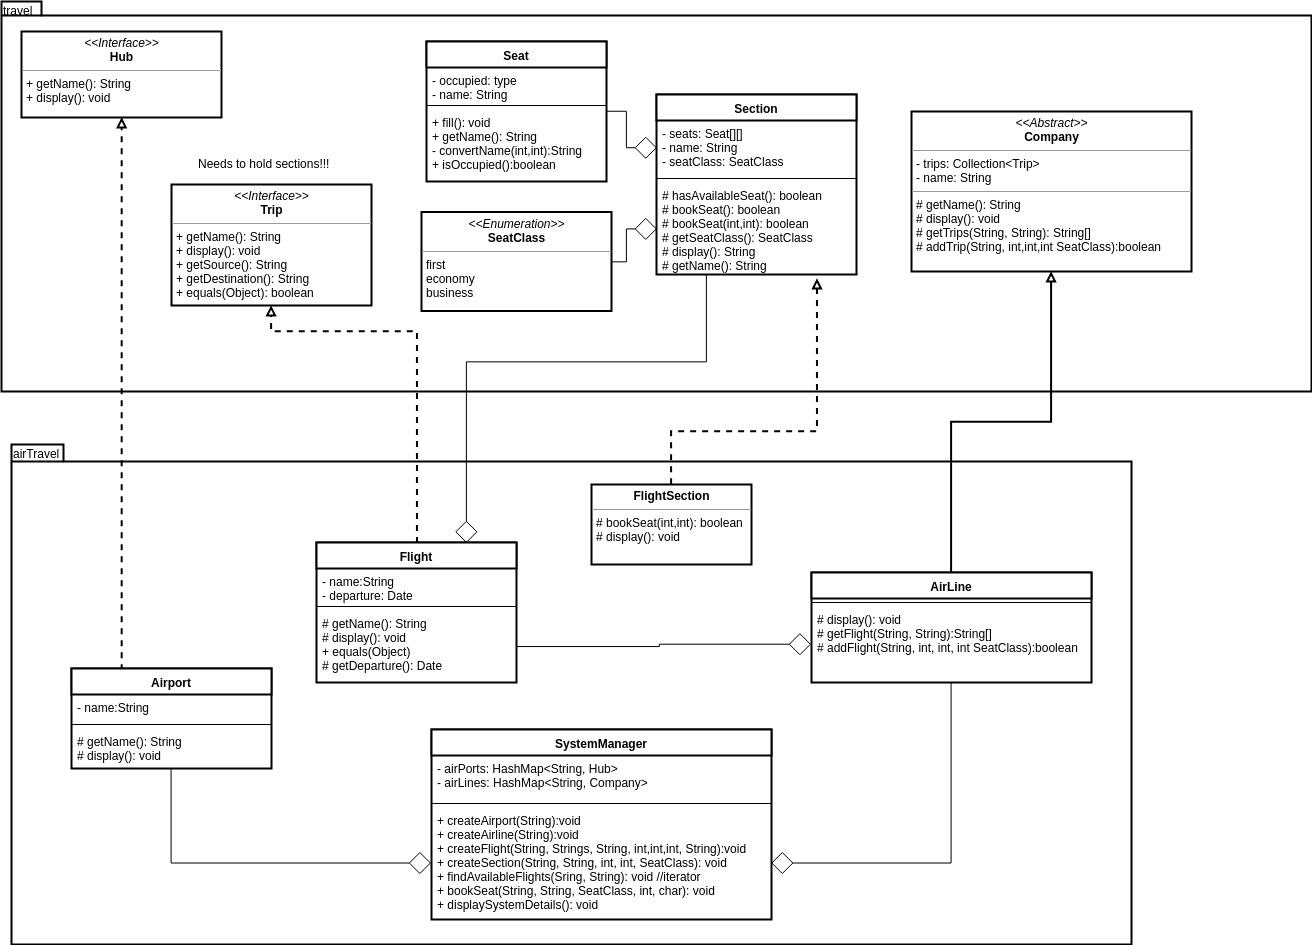
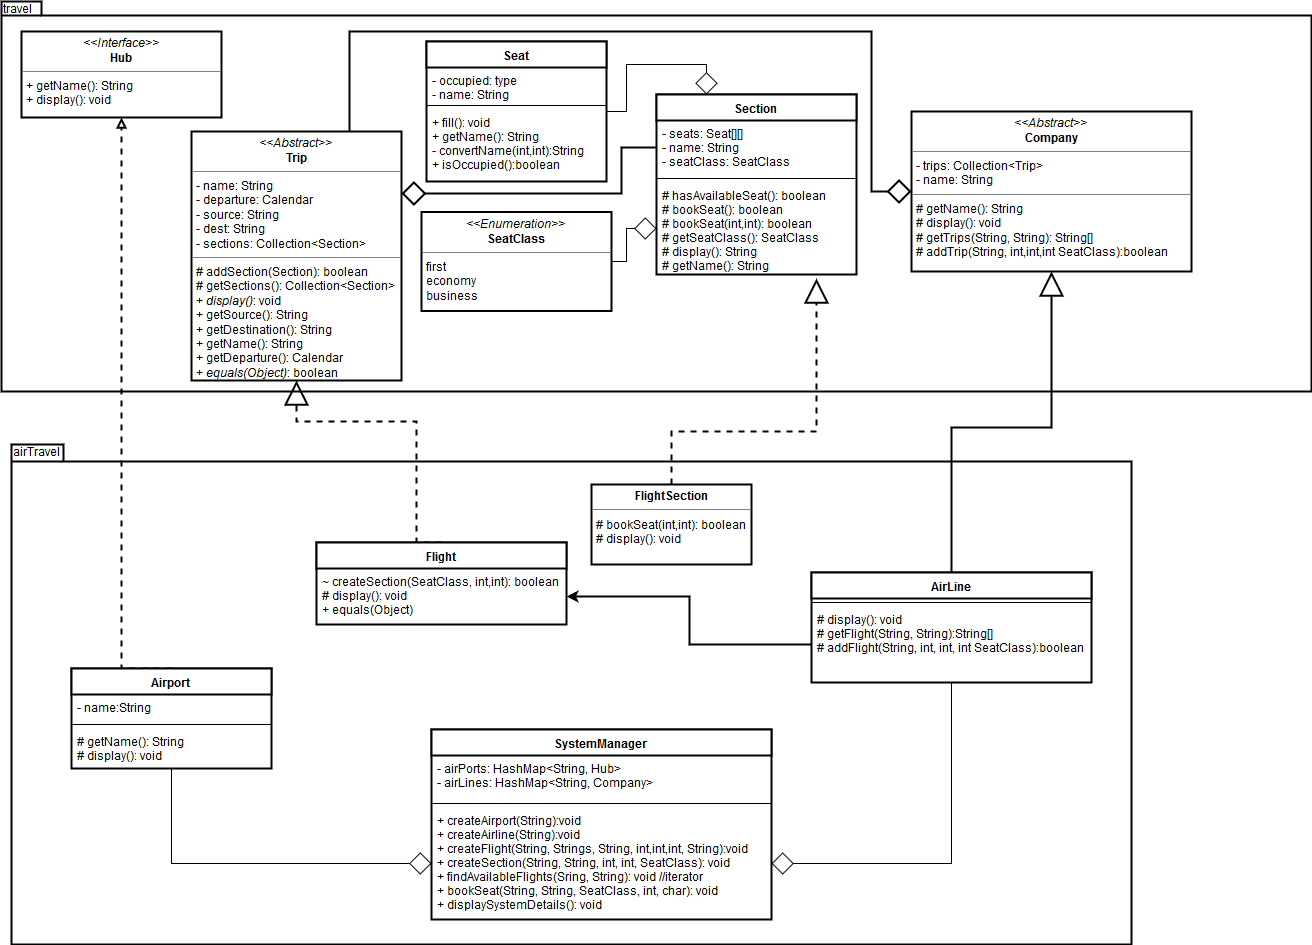
Improved Trips and Sections

diff --git a/src/airTravel/Flight.java b/src/airTravel/Flight.java
@@ -1,50 +1,29 @@
 package airTravel;
 
-
-import java.util.Calendar;
-import java.util.GregorianCalendar;
-
 import travel.SeatClass;
+import travel.Section;
 import travel.Trip;
 
-public class Flight implements Trip
-{
-	private String name;
-	private Calendar departure;
-	private String source;
-	private String dest;
-	
-	public Flight(String name, String source, String dest, int yr, int mnth, int day) {
-		this.departure = validateDate(yr,mnth,day);
-		if(this.departure == null)
-			throw new IllegalArgumentException("Bad Date given to new flight");
-		this.source = source;
-		this.dest = dest;
-		this.name = name;
-	}
-	
-	private static Calendar validateDate(int yr, int mnth, int day)
+public class Flight extends Trip
+{	
+	Flight(String name, String source, String dest, int yr, int mnth, int day) 
 	{
-		Calendar d;
-		try {
-			d = new GregorianCalendar(yr,mnth,day);
-		}catch(Exception e) {
-			return null;
+		super(name, source, dest, yr, mnth, day);
+	}
+
+	
+	boolean createSection(SeatClass seatClass, int rows, int cols) {
+		Section s;
+		try 
+		{
+			s = new FlightSection(seatClass, rows,cols);
 		}
-		Calendar temp = new GregorianCalendar();
-		temp.add(Calendar.YEAR, 1);
-		if(d.after(temp))
-			return null;
-		temp.add(Calendar.YEAR, -7);
-		if(d.before(temp))
-			return null;
+		catch(IllegalArgumentException e)
+		{
+			return false;
+		}
 		
-		return d;
-	}
-	
-	public String getName() 
-	{
-		return this.name;
+		return super.addSection(s);
 	}
 	
 	public boolean equals(Object o) 
@@ -56,8 +35,8 @@ public class Flight implements Trip
 		if(o instanceof Flight) 
 		{
 			Flight that = (Flight)o;
-			return (that.departure.equals(this.departure) &&
-					that.name.equals(this.name) &&
+			return (that.getDeparture().equals(this.getDeparture()) &&
+					that.getName().equals(this.getName()) &&
 					that.getSource().equals(this.getSource()) &&
 					that.getDestination().equals(this.getDestination()));
 		}
@@ -68,19 +47,5 @@ public class Flight implements Trip
 	public void display() {
 		// TODO Auto-generated method stub
 		
-	}
-
-	@Override
-	public String getSource() {
-		return this.source;
-	}
-
-	@Override
-	public String getDestination() {
-		return this.dest;
-	}
-
-	public SeatClass getSeatClass() {
-		return seatClass;
 	}
 }

diff --git a/src/travel/Trip.java b/src/travel/Trip.java
@@ -1,10 +1,84 @@
 package travel;
 
-public interface Trip 
+import java.util.ArrayList;
+import java.util.Calendar;
+import java.util.Collection;
+import java.util.GregorianCalendar;
+
+public abstract class Trip 
 {
-	public String getName();
-	public void display();
-	public String getSource();
-	public String getDestination();
-	public boolean equals(Object o);
+	private String name;
+	private Calendar departure;
+	private String source;
+	private String dest;
+	
+	private Collection<Section> sections;
+	
+	protected Trip(String name, String source, String dest, int yr, int mnth, int day) 
+	{
+		this.departure = validateDate(yr,mnth,day);
+		if(this.departure == null)
+			throw new IllegalArgumentException("Bad Date given to new flight");
+		this.source = source;
+		this.dest = dest;
+		this.name = name;
+		sections = new ArrayList<>();
+	}
+	
+	private static Calendar validateDate(int yr, int mnth, int day)
+	{
+		Calendar d;
+		try {
+			d = new GregorianCalendar(yr,mnth,day);
+		}catch(Exception e) {
+			return null;
+		}
+		Calendar temp = new GregorianCalendar();
+		temp.add(Calendar.YEAR, 1);
+		if(d.after(temp))
+			return null;
+		temp.add(Calendar.YEAR, -7);
+		if(d.before(temp))
+			return null;
+		
+		return d;
+	}
+	
+	protected final boolean addSection(Section s) 
+	{
+		if(s == null)
+			return false;
+		for(Section st : this.sections)
+			if(s.getSeatClass() == st.getSeatClass())
+				return false;
+
+		this.sections.add(s);
+		return true;
+	}
+	
+	protected final Collection<Section> getSections()
+	{
+		return this.sections;
+	}
+	
+	public abstract void display();
+	
+	public final String getSource()
+	{
+		return this.source;
+	}
+	public final String getDestination()
+	{
+		return this.dest;
+	}
+	public final String getName() 
+	{
+		return this.name;
+	}
+	public final Calendar getDeparture() 
+	{
+		return this.departure;
+	}
+	
+	public abstract boolean equals(Object o);
 }

diff --git a/src/travel/Section.java b/src/travel/Section.java
@@ -3,11 +3,15 @@ package travel;
 public abstract class Section 
 {
 	private Seat[][] seats;
-	private String name;
 	private SeatClass seatType;
 	
-	protected Section(String name, SeatClass seatType, int numRows, int numCols) 
+	protected Section(SeatClass seatType, int numRows, int numCols) 
 	{
+		if(seatType == null || numRows <= 0 || numCols <= 0) 
+		{
+			throw new IllegalArgumentException("Bad name, class, numRows, or numCols passed to new Section()");
+		}
+		
 		seats = new Seat[numRows][];
 		for(int i = 0; i < numRows; i++) 
 		{
@@ -15,7 +19,6 @@ public abstract class Section
 			for(int j = 0; j < numCols; j++) 
 				seats[i][j] = new Seat(i,j);
 		}
-		this.name = name;
 		this.seatType = seatType;
 	}
 	
@@ -47,10 +50,6 @@ public abstract class Section
 		}
 		return false;
 			
-	}
-	protected final String getName() 
-	{
-		return this.name;
 	}
 	
 	protected abstract void display();

diff --git a/src/airTravel/FlightSection.java b/src/airTravel/FlightSection.java
@@ -1,21 +1,27 @@
 package airTravel;
 
+import travel.SeatClass;
 import travel.Section;
 
 public class FlightSection extends Section
 {
-    FlightSection()
+    FlightSection(SeatClass seatClass, int rows, int cols) throws IllegalArgumentException
     {
-        super();
+        super(seatClass,rows, cols);
+        
+        if(rows > 100 || cols > 10)
+        	throw new IllegalArgumentException("to many rows or cols passed to new FlightSection");
     }
 
-    protected boolean bookSeat(char c, int i)
+    
+    
+    boolean bookSeat(char c, int i)
     {
         return super.bookSeat(c, i);
     }
 
     protected void display()
     {
-        System.out.println("My flight ID is: " + super.getName());
+        System.out.println("My flight ID is:");
     }
 }
